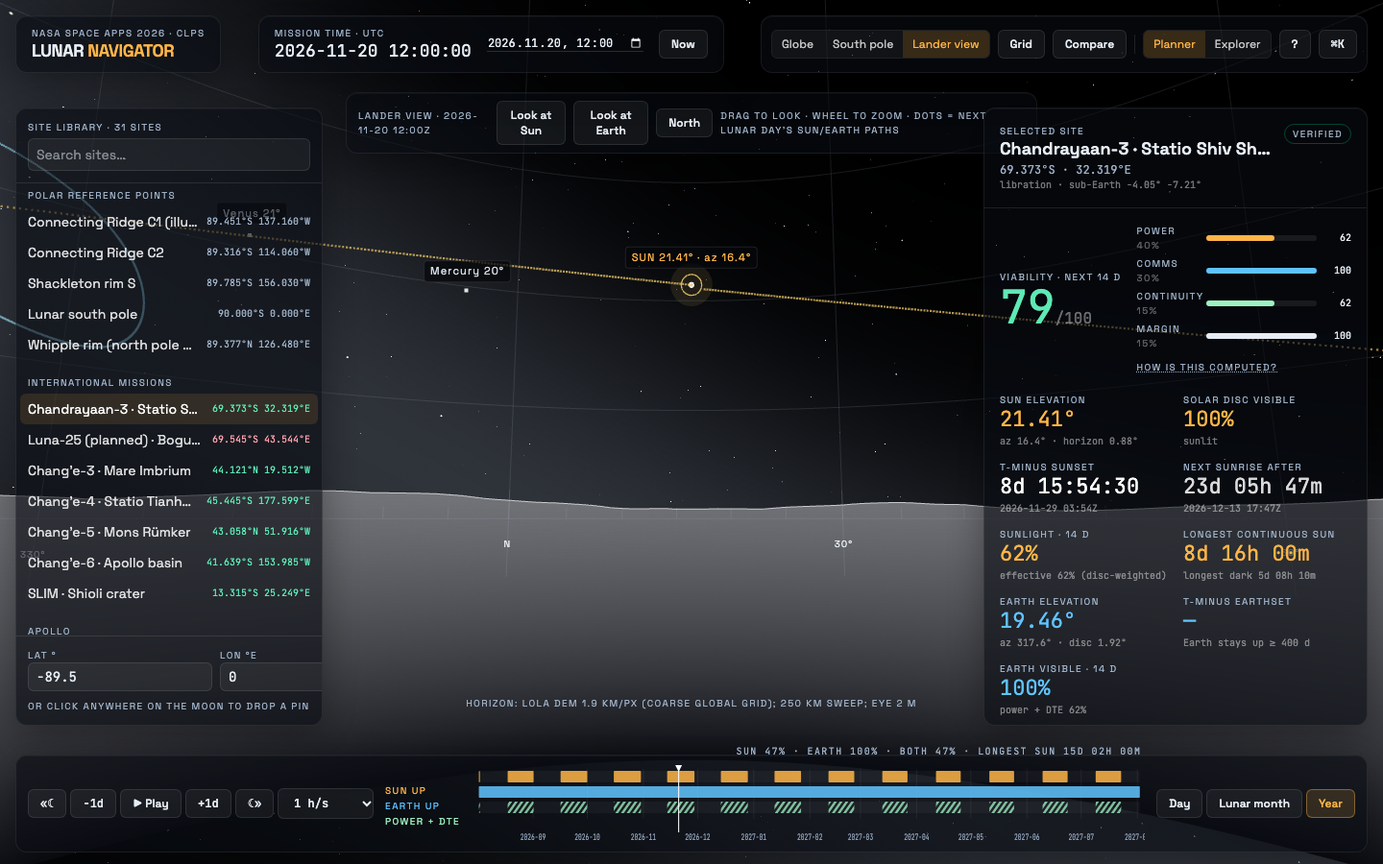
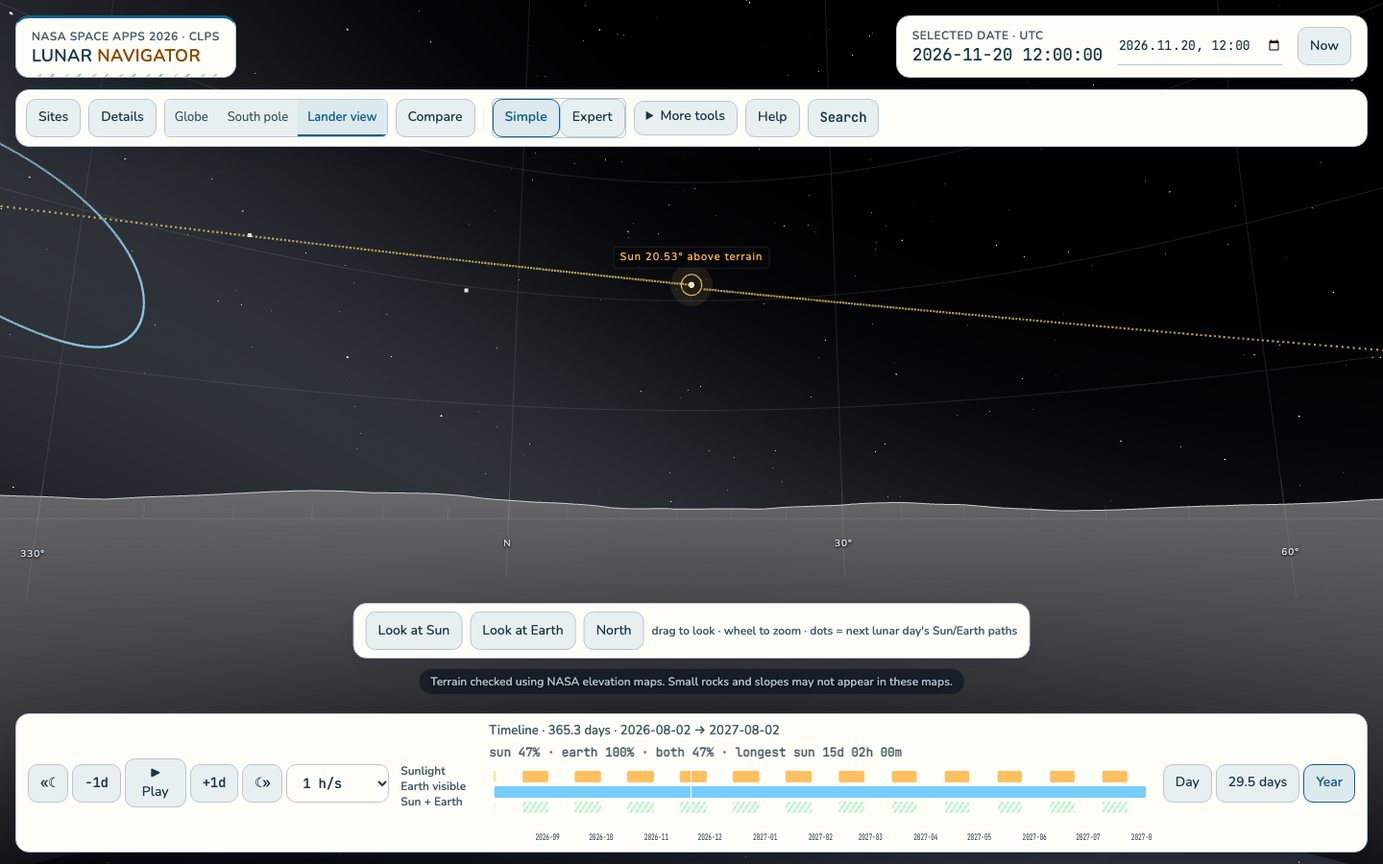
Put the Moon in real space and clear the layout collisions
The scene is now deep space in both themes. Both canvases are transparent and
the page paints the sky gradient behind them, the star shader is additive so it
layers over that gradient instead of flooding it black, and the lander dome
keeps a black, star-filled sky at any hour — the Moon has no atmosphere, so the
old pale-blue sky was wrong in either theme. Camera fly-tos now fit the whole
disc to the narrower viewport axis, so the Moon is never chopped off by the
window edge, and the Earth-direction guide dashes as intended instead of
drawing a solid hairline across the sky.

Against that backdrop the light interface needed its own fixes: the boot screen
moved onto the same sky (its status lines were white on cream, i.e. invisible),
modals use a night scrim rather than a cream veil, and captions sitting on the
scene use a readable pill. Unlayered `.label` was overriding Tailwind's
`normal-case`, so whole sentences were shouted in small caps; it now resets.

Layout collisions are gone: the lander caption and look-direction buttons share
one stack, the compare panel clears both header rows, the south-pole caption
makes room for an open side panel, and scene captions hide under a dialog.
Metric sub-lines wrap instead of truncating mid-word, the site score gained a
ring, compare rows read in sentence case with a pill for the best card, and the
view switch uses the same accent as the other toggles, leaving saffron to mean
sunlight.
[…]

diff --git a/src/index.css b/src/index.css
@@ -110,8 +110,12 @@ html, body, #root { height: 100%; margin: 0; background: var(--color-ink); color
   --ui-red: #a53722;
   --ui-wash: #e7eff0;
   --ui-hover: #dce9ed;
-  --ui-shadow: 0 12px 32px #194e6b18;
-  --scene-background: #dcebf0;
+  --ui-shadow: 0 1px 1px #0b1b2a14, 0 10px 24px -8px #0b1b2a33, 0 32px 60px -28px #0b1b2a4d;
+  --ui-edge: #ffffff;
+  --scene-background: #070e18;
+  --scene-sky: radial-gradient(125% 85% at 50% 4%, #16263c 0%, #0b1526 42%, #050911 100%);
+  --scene-text: #e4edf5;
+  --scene-dim: #a9bccd;
 }
 :root[data-theme="dark"] {
   color-scheme: dark;
@@ -128,8 +132,12 @@ html, body, #root { height: 100%; margin: 0; background: var(--color-ink); color
   --ui-red: #ffb4a1;
   --ui-wash: #193748;
   --ui-hover: #25485c;
-  --ui-shadow: 0 12px 32px #0005;
-  --scene-background: #071827;
+  --ui-shadow: 0 1px 1px #0008, 0 12px 28px -10px #000a, 0 36px 64px -30px #000c;
+  --ui-edge: #ffffff1f;
+  --scene-background: #050b14;
+  --scene-sky: radial-gradient(125% 85% at 50% 4%, #112033 0%, #091322 42%, #04070d 100%);
+  --scene-text: #e4edf5;
+  --scene-dim: #a9bccd;
 }
 html, body, #root { color: var(--ui-text); }
 .glass { background: var(--ui-surface); border-color: var(--ui-border); box-shadow: var(--ui-shadow); backdrop-filter: blur(18px); }
@@ -198,3 +206,107 @@ html, body, #root { color: var(--ui-text); }
 .app-timeline [aria-hidden] .label { color: var(--ui-muted) !important; }
 /* Honor audience-mode hiding even on elements that also use flex/grid utilities. */
 [hidden] { display: none !important; }
+
+/* ===========================================================================
+   Visual system (final layer): the canvas is deep space in both themes, the
+   interface stays on solid cards above it. Rules here intentionally come last
+   so they settle the earlier, incremental patches above.
+   =========================================================================== */
+
+/* --- Backdrop ------------------------------------------------------------ */
+html, body, #root { background: var(--scene-background); }
+.hud-grid {
+  background-color: var(--scene-background);
+  background-image:
+    linear-gradient(rgba(255,255,255,.028) 1px, transparent 1px),
+    linear-gradient(90deg, rgba(255,255,255,.028) 1px, transparent 1px),
+    var(--scene-sky);
+  background-size: 64px 64px, 64px 64px, cover;
+}
+.grain { opacity: .035; }
+
+/* --- Cards --------------------------------------------------------------- */
+.glass {
+  background: var(--ui-surface);
+  border: 1px solid var(--ui-border);
+  border-radius: 14px;
+  box-shadow: var(--ui-shadow), inset 0 1px 0 var(--ui-edge);
+  backdrop-filter: none; -webkit-backdrop-filter: none;
+}
+.glass .glass { box-shadow: none; }
+.btn { border-radius: 10px; transition: background-color .15s ease, border-color .15s ease, color .15s ease; }
+.btn-on { font-weight: 600; }
+
+/* --- Type ---------------------------------------------------------------- */
+/* Tailwind utilities live in a cascade layer, so unlayered `.label` beat
+   `normal-case`; full sentences were being shouted in small caps. */
+.label.normal-case, .label.lowercase, .label.capitalize { text-transform: none; letter-spacing: normal; }
+.compare-panel dl .label, .compare-panel label .label { text-transform: none; letter-spacing: normal; }
+.glass p, .glass li { max-width: 62ch; }
+
+/* --- Text that sits directly on the scene -------------------------------- */
+.scene-note {
+  color: var(--scene-dim);
+  text-shadow: 0 1px 3px #000c;
+  background: #0a1320a8;
+  border: 1px solid #ffffff14;
+  border-radius: 999px;
+  padding: 5px 12px;
+  backdrop-filter: blur(6px); -webkit-backdrop-filter: blur(6px);
+}
+
+/* --- Lander view: one stack, so the caption can never land on the buttons - */
+.lander-controls {
+  position: absolute; left: 50%; transform: translateX(-50%);
+  bottom: 176px; z-index: 20;
+  display: flex; flex-direction: column; align-items: center; gap: 10px;
+  width: max-content; max-width: min(48rem, calc(100vw - 32px));
+}
+.hud-grid:has(aside) .lander-controls, .hud-grid:has([role="dialog"]) .lander-controls { visibility: hidden; }
+.lander-controls > .lander-toolbar,
+.lander-controls > .lander-source {
+  position: static; transform: none; inset: auto; max-width: 100%;
+}
+.lander-controls > .lander-source { text-align: center; }
+@media (max-width: 1279px) { .lander-controls { bottom: 242px; } }
+@media (max-width: 639px) { .lander-controls { bottom: calc(86px + env(safe-area-inset-bottom)); gap: 6px; } }
+
+/* --- Compare: clear the two header rows ---------------------------------- */
+@media (min-width: 640px) { .compare-panel { top: 176px; } }
+.compare-panel { border-radius: 16px; background: color-mix(in srgb, var(--scene-background) 76%, transparent); border-color: #ffffff1a; backdrop-filter: blur(10px); -webkit-backdrop-filter: blur(10px); }
+.compare-panel > p { color: var(--scene-dim); max-width: 86ch; }
+.compare-panel .glass { border-radius: 12px; }
+
+/* --- South-pole map ------------------------------------------------------ */
+.polar-map { background: transparent; }
+.polar-disc { border-color: #ffffff2e; box-shadow: 0 0 0 1px #00000066, 0 24px 70px -20px #000, 0 0 90px -30px #9bdbf5; }
+@media (min-width: 1280px) {
+  .hud-grid:has(aside[aria-label="Site details"]) .polar-map { padding-right: 27rem; }
+  .hud-grid:has(aside[aria-label="Choose a site"]) .polar-map { padding-left: 23rem; }
+}
+
+/* --- Timeline ------------------------------------------------------------ */
+.app-timeline rect { rx: 2; }
+
+/* --- Boot screen: lives on the same night sky, so nothing is white-on-cream - */
+.intro-screen { background: var(--scene-sky); color: var(--scene-text); }
+.intro-screen .label { color: var(--scene-dim); }
+.intro-screen [class*="text-white/"] { color: var(--scene-dim); }
+.intro-screen .text-solar { color: #f5c56d; }
+.intro-screen .bg-solar { background-color: #f5c56d; }
+.intro-screen .bg-white\/10 { background-color: #ffffff24; }
+.intro-screen .btn { background: #ffffff14; border-color: #ffffff38; color: var(--scene-text); }
+.intro-screen .btn:hover { background: #ffffff26; }
+.intro-glow { position: absolute; inset: 0; pointer-events: none; background: radial-gradient(42% 42% at 50% 46%, #9bdbf51f 0%, transparent 70%); }
+
+/* --- Compare cards ------------------------------------------------------- */
+.best-badge { border: 1px solid color-mix(in srgb, var(--ui-turquoise) 45%, transparent); background: color-mix(in srgb, var(--ui-turquoise) 12%, transparent); border-radius: 999px; padding: 3px 9px; align-self: center; }
+/* Scene captions belong to the scene: a panel on top of it owns the screen. */
+.hud-grid:has([role="dialog"]) .scene-note, .hud-grid:has(.compare-panel) .scene-note { display: none; }
+
+/* --- Modal scrim: always a night veil, never a wash of cream over the Moon - */
+.scrim { background: #04070dc2; backdrop-filter: blur(3px); -webkit-backdrop-filter: blur(3px); }
+
+/* --- Segmented view switch: same accent as the other toggles -------------- */
+.seg { min-height: 38px; }
+.seg-on { background: var(--ui-hover); color: var(--color-earth); font-weight: 600; box-shadow: inset 0 -2px 0 var(--color-earth); }

diff --git a/src/scenes/HorizonDome.tsx b/src/scenes/HorizonDome.tsx
@@ -1,5 +1,4 @@
 import { terrainSummary } from '@/ui/terrainCopy';
-import { useTheme } from '@/ui/theme';
 import { Suspense, useMemo, useRef, useState } from 'react';
 import * as THREE from 'three';
 import { Canvas, useFrame, useThree } from '@react-three/fiber';
@@ -23,8 +22,10 @@ function Terrain({ hz }: { hz: HorizonProfile }) {
       const az = (i % n) * hz.stepDeg, e = hz.el[i % n];
       const top = dirOf(az, e, R_SKY), bot = dirOf(az, -20, R_SKY);
       pos.push(top.x, top.y, top.z, bot.x, bot.y, bot.z);
-      const shade = 0.11 + 0.09 * THREE.MathUtils.clamp((e + 3) / 12, 0, 1);
-      col.push(shade, shade * 1.02, shade * 1.1, 0.012, 0.013, 0.018);
+      // Lit regolith against a black sky: the crest stays bright enough to read as a silhouette
+      // edge, the ground falls away to near-black at the viewer's feet.
+      const shade = 0.09 + 0.09 * THREE.MathUtils.clamp((e + 3) / 12, 0, 1);
+      col.push(shade, shade * 0.99, shade * 1.03, 0.016, 0.017, 0.021);
       if (i < n) { const a = i * 2; idx.push(a, a + 1, a + 2, a + 1, a + 3, a + 2); }
     }
     const g = new THREE.BufferGeometry(); g.setAttribute('position', new THREE.Float32BufferAttribute(pos, 3)); g.setAttribute('color', new THREE.Float32BufferAttribute(col, 3)); g.setIndex(idx); return g;
@@ -90,7 +91,6 @@ function Look({ yaw, pitch, fov }: { yaw: React.MutableRefObject<number>; pitch:
 }
 
 export default function HorizonDome() {
-  const theme = useTheme((s) => s.theme);
   const site = useActiveSite(); const hz = useHorizon(site); const timeMs = useStore((s) => s.timeMs);
   const { live } = useMetrics();
   const yaw = useRef(live.sun.az), pitch = useRef(8), fov = useRef(70);
@@ -122,9 +122,9 @@ export default function HorizonDome() {
       onPointerMove={(e) => { if (!drag.current) return; const k = fov.current / 900; yaw.current += (drag.current.x - e.clientX) * -k * -1; pitch.current = Math.max(-25, Math.min(85, pitch.current + (e.clientY - drag.current.y) * k)); drag.current = { x: e.clientX, y: e.clientY }; }}
       onPointerUp={() => { drag.current = null; }} onPointerLeave={() => { drag.current = null; }}
       onWheel={(e) => { fov.current = Math.max(25, Math.min(100, fov.current + e.deltaY * 0.05)); }}>
-      <Canvas camera={{ fov: 70, near: 0.1, far: 400, position: [0, 0, 0] }} dpr={[1, 2]} gl={{ antialias: true }} style={{ position: 'absolute', inset: 0 }}>
-        <color attach="background" args={[theme === 'light' ? '#dcebf0' : '#071827']} />
-        {theme === 'dark' && <Stars />}
+      <Canvas camera={{ fov: 70, near: 0.1, far: 400, position: [0, 0, 0] }} dpr={[1, 2]} gl={{ antialias: true, alpha: true }} style={{ position: 'absolute', inset: 0 }}>
+        {/* No atmosphere: the lunar sky is black with stars at any hour, in either theme. */}
+        <Stars />
         <ambientLight intensity={0.05} />
         <Terrain hz={hz} />
         <Grid />
@@ -136,16 +136,18 @@ export default function HorizonDome() {
         <Look yaw={yaw} pitch={pitch} fov={fov} />
       </Canvas>
       <div className="absolute inset-0 pointer-events-none overflow-hidden" aria-hidden>
-        {items.map((it) => <div key={it.id} className="absolute top-0 left-0" style={{ opacity: 0 }} ref={(el) => { if (el) labelRegistry.set(it.id, { pos: it.pos, el, occlude: false }); else labelRegistry.delete(it.id); }}><div className="pin-label" style={{ color: it.color, transform: 'translate(-50%, -50%)', background: it.color ? 'rgba(5,7,11,.75)' : 'transparent', border: it.color ? undefined : 'none', fontSize: it.color ? 11 : 10, letterSpacing: '.1em' }}>{it.text}</div></div>)}
+        {items.map((it) => <div key={it.id} className="absolute top-0 left-0" style={{ opacity: 0 }} ref={(el) => { if (el) labelRegistry.set(it.id, { pos: it.pos, el, occlude: false }); else labelRegistry.delete(it.id); }}><div className="pin-label" style={{ transform: 'translate(-50%, -50%)', background: it.color ? 'rgba(5,7,11,.78)' : 'transparent', border: it.color ? undefined : 'none', color: it.color ?? '#cddbe8', textShadow: it.color ? undefined : '0 1px 3px #000', fontSize: it.color ? 11 : 10, letterSpacing: '.1em' }}>{it.text}</div></div>)}
       </div>
-      <div className="lander-toolbar absolute left-1/2 -translate-x-1/2 top-24 z-20 glass rounded-xl px-3 py-2 flex items-center gap-2 pointer-events-auto" role="group" aria-label="Look direction">
+      <div className="lander-controls">
+      <div className="lander-toolbar glass rounded-xl px-3 py-2 flex items-center gap-2 pointer-events-auto" role="group" aria-label="Look direction">
         <span className="label sr-only">Lander view · {fmtDateTime(timeMs)}</span>
         <button className="btn" onClick={() => lookAt(live.sun.az, live.sun.el)}>Look at Sun</button>
         <button className="btn" onClick={() => lookAt(live.earth.az, live.earth.el)}>Look at Earth</button>
         <button className="btn" onClick={() => lookAt(0, 8)}>North</button>
         <span className="label normal-case tracking-normal text-white/50 hidden lg:block">drag to look · wheel to zoom · dots = next lunar day's Sun/Earth paths</span>
       </div>
-      <div className="lander-source absolute left-1/2 -translate-x-1/2 bottom-40 z-20 label normal-case tracking-normal text-white/60 pointer-events-none">{terrainSummary(hz)}</div>
+      <div className="lander-source scene-note label normal-case tracking-normal text-xs pointer-events-none">{terrainSummary(hz)}</div>
+      </div>
     </div>
   );
 }

diff --git a/src/ui/Dashboard.tsx b/src/ui/Dashboard.tsx
@@ -70,9 +70,12 @@ export function Dashboard({ explorer = false, compact = false, onClose }: { expl
         <section aria-label="Site score" className="space-y-2">
           <div className="label">{windowLabel}</div>
           <div className="flex items-start gap-4">
-            <div>
+            <div className="shrink-0">
               <div className="label">Site score</div>
-              <div className={`num text-5xl leading-none ${tone}`}>{score.total.toFixed(0)}<span className="text-base text-white/40">/100</span></div>
+              <div className={`flex items-center gap-2.5 ${tone}`}>
+                <ScoreDial value={score.total} />
+                <div className="num text-5xl leading-none">{score.total.toFixed(0)}<span className="text-base text-white/40">/100</span></div>
+              </div>
             </div>
             <div className="flex-1 space-y-1.5 min-w-0">
               {/* Conditions at the selected time, separate from the window score above: the next terrain-aware
@@ -154,6 +157,17 @@ export function Dashboard({ explorer = false, compact = false, onClose }: { expl
     </aside>
   );
 }
+/** Score as a ring: the same number the digits show, readable from across a room. */
+function ScoreDial({ value }: { value: number }) {
+  const r = 22, circ = 2 * Math.PI * r, v = Math.max(0, Math.min(100, value));
+  return (
+    <svg width="44" height="44" viewBox="0 0 52 52" aria-hidden className="shrink-0">
+      <circle cx="26" cy="26" r={r} fill="none" stroke="var(--ui-border)" strokeWidth="6" opacity="0.5" />
+      <circle cx="26" cy="26" r={r} fill="none" stroke="currentColor" strokeWidth="6" strokeLinecap="round"
+        strokeDasharray={`${(v / 100) * circ} ${circ}`} transform="rotate(-90 26 26)" />
+    </svg>
+  );
+}
 function Metric({ label, value, sub, tone, live }: { label: string; value: string; sub: string; tone: string; live?: boolean }) {
-  return <div><div className="label">{label}</div><div className={`num text-[22px] leading-none mt-0.5 ${tone}`} aria-live={live ? 'off' : undefined}>{value}</div><div className="num text-[10px] text-white/45 mt-1 truncate" title={sub}>{sub}</div></div>;
+  return <div><div className="label">{label}</div><div className={`num text-[22px] leading-none mt-0.5 ${tone}`} aria-live={live ? 'off' : undefined}>{value}</div><div className="num text-[10px] text-white/45 mt-1 leading-snug" title={sub}>{sub}</div></div>;
 }

diff --git a/src/scenes/CameraRig.tsx b/src/scenes/CameraRig.tsx
@@ -13,7 +13,7 @@ const prefersStill = typeof window !== 'undefined' && window.matchMedia?.('(pref
 export function CameraRig() {
   const near = useRef(false);
   const controls = useRef<OC>(null);
-  const { camera } = useThree();
+  const { camera, size } = useThree();
   const target = useRef<{ pos: THREE.Vector3; up: THREE.Vector3; t: number; rate: number } | null>(null);
   const flyToken = useStore((s) => s.flyToken), introDone = useStore((s) => s.introDone);
 
@@ -24,7 +24,15 @@ export function CameraRig() {
       camera.position.copy(dir.multiplyScalar(9)); camera.up.set(0, 1, 0); controls.current?.update(); return;
     }
     const site = resolveSite(siteId, custom);
-    const dist = view === 'polar' ? 3.6 : Math.min(Math.max(camera.position.length(), 2.2), 3.4);
+    // Frame the whole disc inside the viewport: at `fit` the Moon (radius 1) clears the narrower
+    // screen axis with room to spare, so no edge of it is ever chopped off by the window — tall
+    // phone screens simply sit further back than a wide desktop one.
+    const half = Math.tan((((camera as THREE.PerspectiveCamera).fov ?? 38) * Math.PI) / 360);
+    const aspect = size.width > 0 && size.height > 0 ? size.width / size.height : 16 / 9;
+    const fit = 1.35 / (half * Math.min(1, aspect));
+    // Every fly-to re-frames the disc. A fly-to is a "show me this place" gesture, so it should land
+    // on a whole Moon rather than inherit whatever zoom the previous flight was passing through.
+    const dist = view === 'polar' ? fit : Math.min(Math.max(camera.position.length(), fit * 0.92), fit * 1.08);
     let dir: THREE.Vector3, up: THREE.Vector3;
     if (view === 'polar') { dir = new THREE.Vector3(0, -1, 0); up = new THREE.Vector3(1, 0, 0); }
     else if (view === 'horizon') return;
@@ -37,7 +45,7 @@ export function CameraRig() {
     target.current = { pos: dir.multiplyScalar(dist), up, t: 0, rate: cinematic ? 1.0 : 3.2 };
     if (cinematic) useStore.setState({ cinematic: false });
     if (prefersStill) { camera.position.copy(target.current.pos); camera.up.copy(up); controls.current?.update(); target.current = null; }
-  }, [flyToken, introDone, camera]);
+  }, [flyToken, introDone, camera, size.width, size.height]);
 
   useFrame((_, dt) => {
     const tg = target.current;

diff --git a/src/ui/Compare.tsx b/src/ui/Compare.tsx
@@ -46,10 +46,10 @@ function Card({ sc, baseMs, slipDays, windowDays, best, onMetrics }: { sc: Scena
         <button className="btn px-2" aria-label="Remove this comparison" onClick={() => remove(sc.key)}>✕</button>
       </div>
       <label className="flex items-center gap-2 text-[11px]"><span className="label">Days from selected date</span><input aria-label="Days before or after the selected date" type="number" step={1} className="num w-16 bg-white/5 border border-white/10 rounded px-1.5 py-0.5" value={sc.offsetDays} onChange={(e) => update(sc.key, { offsetDays: +e.target.value || 0 })} /><span className="label">d</span><span className="num text-white/55 ml-auto">{fmtDateTime(t)}</span></label>
-      <div className="flex items-end gap-3">
-        <div><div className="label">Site score</div><div className={`num text-4xl leading-none ${tone}`}>{m.score.total.toFixed(0)}</div></div>
+      <div className="flex items-end gap-3 flex-wrap">
+        <div className="shrink-0"><div className="label">Site score</div><div className={`num text-4xl leading-none ${tone}`}>{m.score.total.toFixed(0)}</div></div>
         <div className="pb-1"><Delta v={m.score.total - base.score.total} /></div>
-        {best && <span className="label text-emerald-300 ml-auto">Highest score (ties included)</span>}
+        {best && <span className="best-badge label normal-case text-emerald-300 ml-auto">Highest score (ties included)</span>}
       </div>
       <dl className="grid grid-cols-[1fr_auto_auto] gap-x-2 gap-y-1 text-[11px] num">
         <Row l="Sunlight" v={fmtPct(w.sunlitFrac)} d={<Delta v={100 * (w.sunlitFrac - bw.sunlitFrac)} unit="pt" />} />
@@ -61,7 +61,7 @@ function Card({ sc, baseMs, slipDays, windowDays, best, onMetrics }: { sc: Scena
         <Row l="Earth height at landing" v={`${m.now.earthEl.toFixed(1)}°`} d={<Delta v={m.now.earthEl - base.now.earthEl} unit="°" digits={1} />} />
       </dl>
       <MiniBands m={m} t={t} windowDays={windowDays} />
-      <div className="label normal-case tracking-normal text-white/40 truncate" title={terrainSummary(hz)}>{terrainSummary(hz)}</div>
+      <div className="label normal-case tracking-normal text-white/40 leading-snug" title={terrainSummary(hz)}>{terrainSummary(hz)}</div>
     </article>
   );
 }

diff --git a/src/scenes/Globe.tsx b/src/scenes/Globe.tsx
@@ -1,4 +1,3 @@
-import { useTheme } from '@/ui/theme';
 import PolarMap from './PolarMap';
 import { Suspense } from 'react';
 import { Canvas, useFrame, useThree } from '@react-three/fiber';
@@ -18,12 +17,11 @@ function Labels() {
   return null;
 }
 function Scene() {
-  const theme = useTheme((s) => s.theme);
   const timeMs = useStore((s) => s.timeMs);
   const eph = useEphemeris(timeMs);
   return (
     <>
-      {theme === 'dark' && <Stars />}
+      <Stars />
       <directionalLight position={eph.sunPos} intensity={3.2} color="#fff4e0" />
       <ambientLight intensity={0.02} />
       <Suspense fallback={null}>
@@ -38,18 +36,18 @@ function Scene() {
 }
 
 export default function Globe() {
-  const theme = useTheme((s) => s.theme);
   const timeMs = useStore((s) => s.timeMs);
   const eph = useEphemeris(timeMs);
   const view = useStore((s) => s.view);
   if (view === 'polar') return <PolarMap />;
   return (
     <div className="absolute inset-0">
-    <Canvas className="absolute inset-0" camera={{ position: [2.2, 0.6, 2.4], fov: 38, near: 0.05, far: 200 }} dpr={[1, 2]} gl={{ antialias: true, powerPreference: 'high-performance' }} style={{ position: 'absolute', inset: 0 }}>
-      <color attach="background" args={[theme === 'light' ? '#dcebf0' : '#071827']} />
+    {/* The canvas is transparent: space itself is the page gradient behind it, so the Moon sits in
+        one continuous sky instead of a flat fill that stops at the canvas edge. */}
+    <Canvas className="absolute inset-0" camera={{ position: [2.79, 0.76, 3.05], fov: 38, near: 0.05, far: 200 }} dpr={[1, 2]} gl={{ antialias: true, alpha: true, powerPreference: 'high-performance' }} style={{ position: 'absolute', inset: 0 }}>
       <Scene />
     </Canvas>
-    <div className="absolute left-1/2 -translate-x-1/2 bottom-36 text-xs text-haze pointer-events-none">Polar relief: NASA LRO LOLA / PDS · fixed map lighting</div>
+    <div className="scene-note absolute left-1/2 -translate-x-1/2 bottom-44 text-xs pointer-events-none">Polar relief: NASA LRO LOLA / PDS · fixed map lighting</div>
     <LabelLayer siteSun={eph.siteSun} earthPos={eph.earthPos} />
     </div>
   );

diff --git a/src/ui/CommandPalette.tsx b/src/ui/CommandPalette.tsx
@@ -36,7 +36,7 @@ export function CommandPalette({ commands, onClose }: { commands: Command[]; onC
   useEffect(() => setI(0), [q]);
   const run = async (c: Command) => { try { await c.run(); if (c.id === 'share') setFeedback('Link copied. You can share this site and date.'); else onClose(); } catch { setFeedback('The link could not be copied. Copy the address from your browser’s address bar instead.'); } };
   return (
-    <div className="absolute inset-0 z-50 bg-ink/60 flex items-start justify-center pt-[12vh]" onClick={onClose} role="dialog" aria-modal="true" aria-label="Search sites and actions" ref={dialog} tabIndex={-1}>
+    <div className="absolute inset-0 z-50 scrim flex items-start justify-center pt-[12vh]" onClick={onClose} role="dialog" aria-modal="true" aria-label="Search sites and actions" ref={dialog} tabIndex={-1}>
       <div className="glass rounded-xl w-[34rem] max-w-[92vw] overflow-hidden" onClick={(e) => e.stopPropagation()}>
         <div className="flex justify-between items-center px-4 pt-3"><h2 className="font-semibold">Find a site or action</h2><button className="btn" onClick={onClose}>Close search</button></div>
         <input ref={input} role="combobox" aria-expanded={true} aria-controls="search-results" aria-autocomplete="list" aria-activedescendant={list[i] ? `command-${list[i].id}` : undefined} aria-label="Search sites and actions" className="w-full bg-transparent px-4 py-3 text-base outline-none border-b border-white/10" placeholder="Jump to a site, a date, a view…" value={q} onChange={(e) => setQ(e.target.value)}

diff --git a/src/ui/Intro.tsx b/src/ui/Intro.tsx
@@ -10,10 +10,12 @@ export function Intro({ onDone }: { onDone: () => void }) {
   useEffect(() => { if (t >= 26) { try { sessionStorage.setItem('ln-intro', '1'); } catch { /* ignore */ } onDone(); } }, [t, onDone]);
   const lines = [[2, 'Finding the Sun and Earth', ephem], [8, 'Loading mountains and craters', hz], [14, 'Loading places to explore', true], [19, 'Positions checked against NASA reference data', true]] as const;
   return (
-    <div className="absolute inset-0 z-[60] bg-ink grid place-items-center cursor-pointer" onClick={onDone} role="status" aria-live="polite">
-      <div className="text-center">
+    <div className="intro-screen absolute inset-0 z-[60] grid place-items-center cursor-pointer" onClick={onDone} role="status" aria-live="polite">
+      <div className="intro-glow" aria-hidden />
+      <div className="text-center relative">
         <div className="label mb-2">NASA Space Apps 2026 · CLPS</div>
         <div className="text-5xl font-semibold tracking-tight">LUNAR <span className="text-solar">NAVIGATOR</span></div>
+        <div className="label normal-case mt-3 text-sm">Sunlight, terrain and Earth contact for every landing site</div>
         <div className="mt-6 space-y-1 text-left inline-block">
           {lines.map(([at, text, ok]) => <div key={text} className={`num text-xs transition-opacity duration-300 ${t >= at ? 'opacity-100' : 'opacity-0'}`}><span className={ok ? 'text-emerald-300' : 'text-solar'}>{ok ? '●' : '○'}</span> <span className="text-white/75">{text}</span></div>)}
         </div>

diff --git a/src/ui/SiteDateHeatmap.tsx b/src/ui/SiteDateHeatmap.tsx
@@ -44,7 +44,7 @@ function YearMap({ onClose }: { onClose: () => void }) {
     return () => { cancelled = true; };
   }, [dates, days, options, ready]);
   const pick = (id: string, date: number) => { useStore.getState().selectSite(id); useStore.getState().setTime(date); onClose(); };
-  return <div className="fixed inset-0 z-50 p-3 sm:p-6 grid place-items-center bg-ink/70">
+  return <div className="fixed inset-0 z-50 p-3 sm:p-6 grid place-items-center scrim">
     <div ref={ref} tabIndex={-1} role="dialog" aria-modal="true" aria-labelledby="year-map-title" className="glass rounded-2xl p-4 w-full max-w-6xl max-h-full overflow-y-auto space-y-3">
       <div className="flex justify-between gap-3"><h2 id="year-map-title" className="text-xl font-semibold">A year of landing dates</h2><button className="btn" onClick={onClose}>Close year map</button></div>
       <p className="text-sm text-haze">One sample per month, at your selected UTC time, for each library site. Every cell uses the same {days}-day mission, sunset rule and {options.earthMarginDeg}° radio clearance. These samples do not find the best minute or every short opportunity.</p>

diff --git a/src/ui/Methodology.tsx b/src/ui/Methodology.tsx
@@ -4,7 +4,7 @@ import { useDialogFocus } from './useDialogFocus';
 export function Methodology({ onClose }: { onClose: () => void }) {
   const ref = useDialogFocus();
   useEffect(() => { const key = (e: KeyboardEvent) => { if (e.key === 'Escape') onClose(); }; window.addEventListener('keydown', key); return () => window.removeEventListener('keydown', key); }, [onClose]);
-  return <div className="absolute inset-0 z-50 bg-ink/70 grid place-items-center p-4" onClick={onClose}>
+  return <div className="absolute inset-0 z-50 scrim grid place-items-center p-4" onClick={onClose}>
     <div ref={ref} tabIndex={-1} role="dialog" aria-modal="true" aria-labelledby="help-title" className="glass rounded-2xl max-w-3xl w-full max-h-full overflow-y-auto p-5 text-base leading-relaxed" onClick={(e) => e.stopPropagation()}>
       <div className="flex items-start justify-between gap-3"><h2 id="help-title" className="text-xl font-semibold">Help with Lunar Navigator</h2><button className="btn" onClick={onClose}>Close help</button></div>
       <ol className="list-decimal pl-5 space-y-2 mt-4">

diff --git a/src/ui/Hud.tsx b/src/ui/Hud.tsx
@@ -22,7 +22,7 @@ export function Hud({ onPalette, onMethodology, onTour, compact = false, siteDra
   const compareOpen = useCompare((s) => s.open), setCompareOpen = useCompare((s) => s.setOpen);
   const d = new Date(timeMs);
   const utcLocal = d.toISOString().slice(0, 16);
-  const seg = (on: boolean) => `px-2.5 py-1.5 text-xs transition-colors ${on ? 'bg-solar/20 text-solar' : 'bg-white/5 text-white/75 hover:bg-white/10'}`;
+  const seg = (on: boolean) => `seg px-2.5 py-1.5 text-xs transition-colors ${on ? 'seg-on' : 'bg-white/5 text-white/75 hover:bg-white/10'}`;
   return (
     <header data-tools-open={toolsOpen} className="app-hud absolute top-0 inset-x-0 z-40 flex flex-wrap items-stretch justify-between p-4 gap-3 pointer-events-none">
       <div className="glass rounded-xl px-4 py-2.5 pointer-events-auto shrink-0 flex flex-col justify-center">

diff --git a/src/scenes/EarthMarker.tsx b/src/scenes/EarthMarker.tsx
@@ -11,7 +11,7 @@ export function EarthMarker({ pos, sunPos }: { pos: THREE.Vector3; sunPos: THREE
   return (
     <group>
       <group quaternion={q}>
-        <lineSegments geometry={line} scale={[len - 0.14, 1, 1]}><lineDashedMaterial color="#5fc3ff" transparent opacity={0.35} dashSize={0.06} gapSize={0.04} onUpdate={(m) => void m} /></lineSegments>
+        <lineSegments geometry={line} scale={[len - 0.14, 1, 1]} onUpdate={(self) => self.computeLineDistances()}><lineDashedMaterial color="#5fc3ff" transparent opacity={0.45} dashSize={0.04} gapSize={0.03} /></lineSegments>
       </group>
       <group position={pos}>
         <mesh rotation={[0, Math.PI, 0]}><sphereGeometry args={[0.11, 48, 24]} /><meshStandardMaterial map={tex} roughness={0.9} metalness={0} /></mesh>
